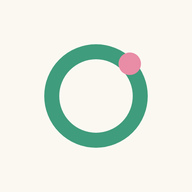
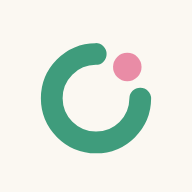
앱 아이콘 교체: 굵은 초록 선(둥근 끝)·끊긴 자리에 핑크 점
Claude-Session: https://claude.ai/code/session_0158WBAPkmKQJa8qtBB3h6mA

Changed region(s): [[0.1875, 0.2188, 0.8125, 0.8125]]

diff --git a/sw.js b/sw.js
@@ -1,4 +1,4 @@
-const CACHE='rc-store-v52';
+const CACHE='rc-store-v53';
 const ASSETS=['./','./index.html','./manifest.json','./icon-192.png','./icon-512.png','./pretendard-sub.woff2'];
 
 self.addEventListener('install',e=>{
